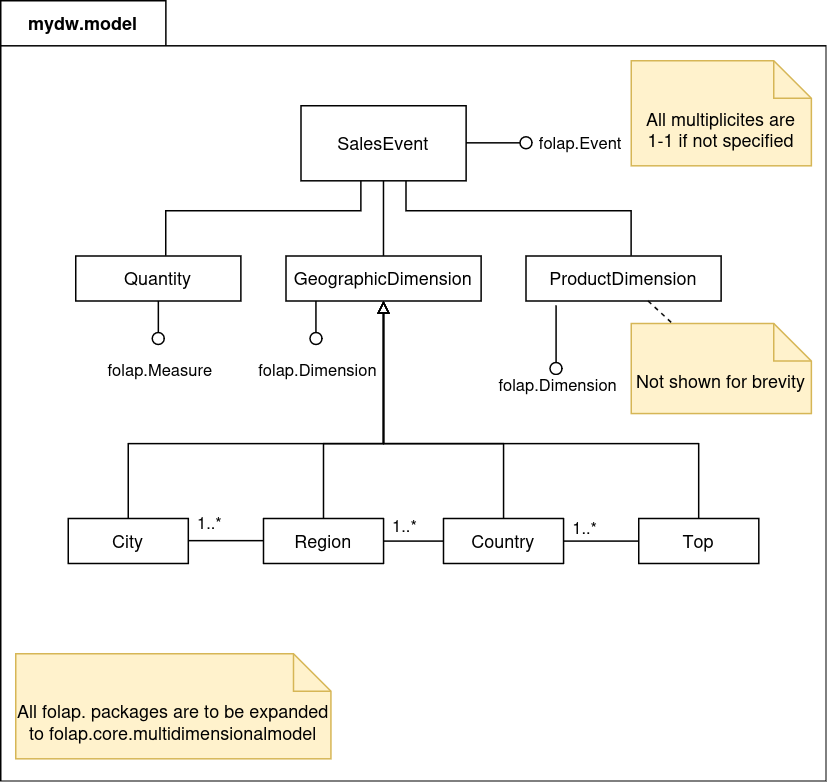
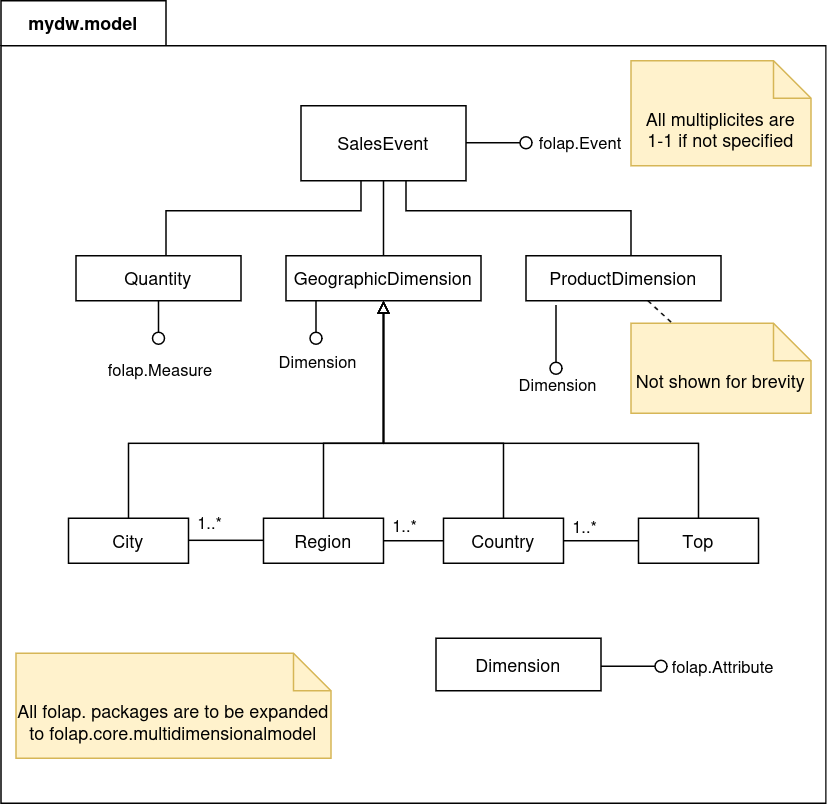
Design di dettaglio

diff --git a/docs/04_DesignDettaglio.md b/docs/04_DesignDettaglio.md
@@ -1,0 +1,34 @@
+# Design di dettaglio
+
+In primo luogo, si è deciso di operare su degli `Iterable` contenenti gli eventi primari (non aggregati), in modo
+da essere flessibili su come questi vengano recuperati dall'utente.
+
+Inoltre, abbiamo deciso di lasciare esprimere all'utente la struttura degli eventi, degli attributi e delle misure.
+Questo consente di recuperare agevolmente i valori delle misure e degli attributi.
+
+Per fare questo, abbiamo ipotizzato di definire alcuni `trait` di base (`Event`, `Attribute` e `Measure`) e lasciare
+che sia l'utente ad estenderli.
+
+Ci aspettiamo che il modello venga rappresentato nel seguente modo:
+![UML che rappresenta un SalesEvent con le sue misure e le sue gerarchie](imgs/model.png)
+
+Nello specifico, l'utente deve definire le gerarchie corrispondenti alle di mensioni, ed ogni livello della gerarchia
+deve avere lo stesso supertipo. Tutti i supertipi (ad es. `ProductDimension` e `GeographicDimension`) devono essere
+raggruppati in un `trait` che rappresenta tutte le dimensioni dell'evento, che a sua volta estende il trait `Attribute`
+definito dalla nostra libreria.
+
+Questo approccio richiede molta scrittura di codice _boilerplate_, per cui abbiamo deciso di predisporre un DSL atto
+alla generazione del codice che definisce gli eventi.
+
+Per come abbiamo implementato il DSL, ci aspettiamo che l'utente strutturi il progetto in un modo simile al diagramma
+sottoriportato:
+![Diagramma dei package, UML](imgs/package.png)
+
+- Un package in cui viene generato il codice
+- Un package contenente il codice generato
+- Un package contenente la logica di accesso ai dati
+- Un package per le query
+
+L'ultimo package potrebbe essere anche un Jupyter Notebook con [spylon kernel](https://github.com/adtech-labs/spylon-kernel)
+o uno [Scala Worksheet](https://docs.scala-lang.org/scala3/book/tools-worksheets.html)
+
